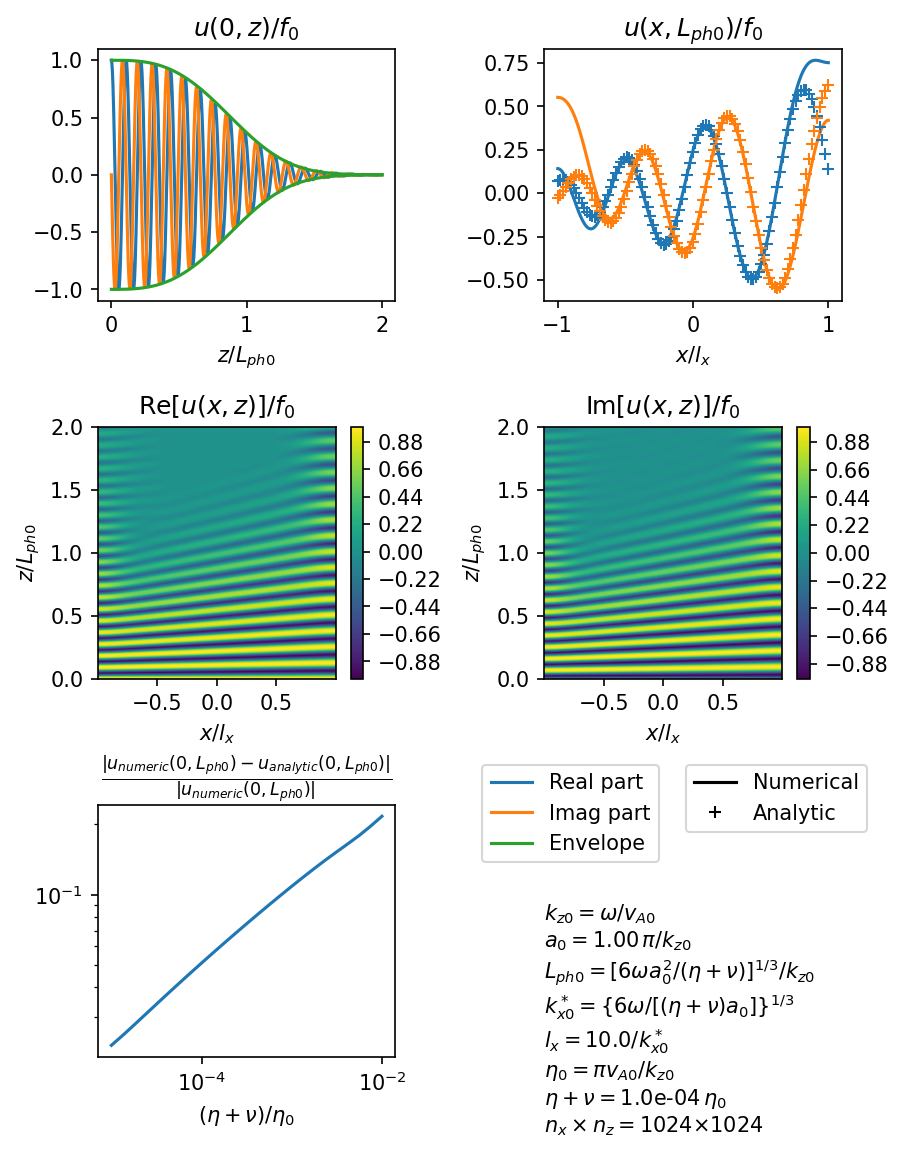
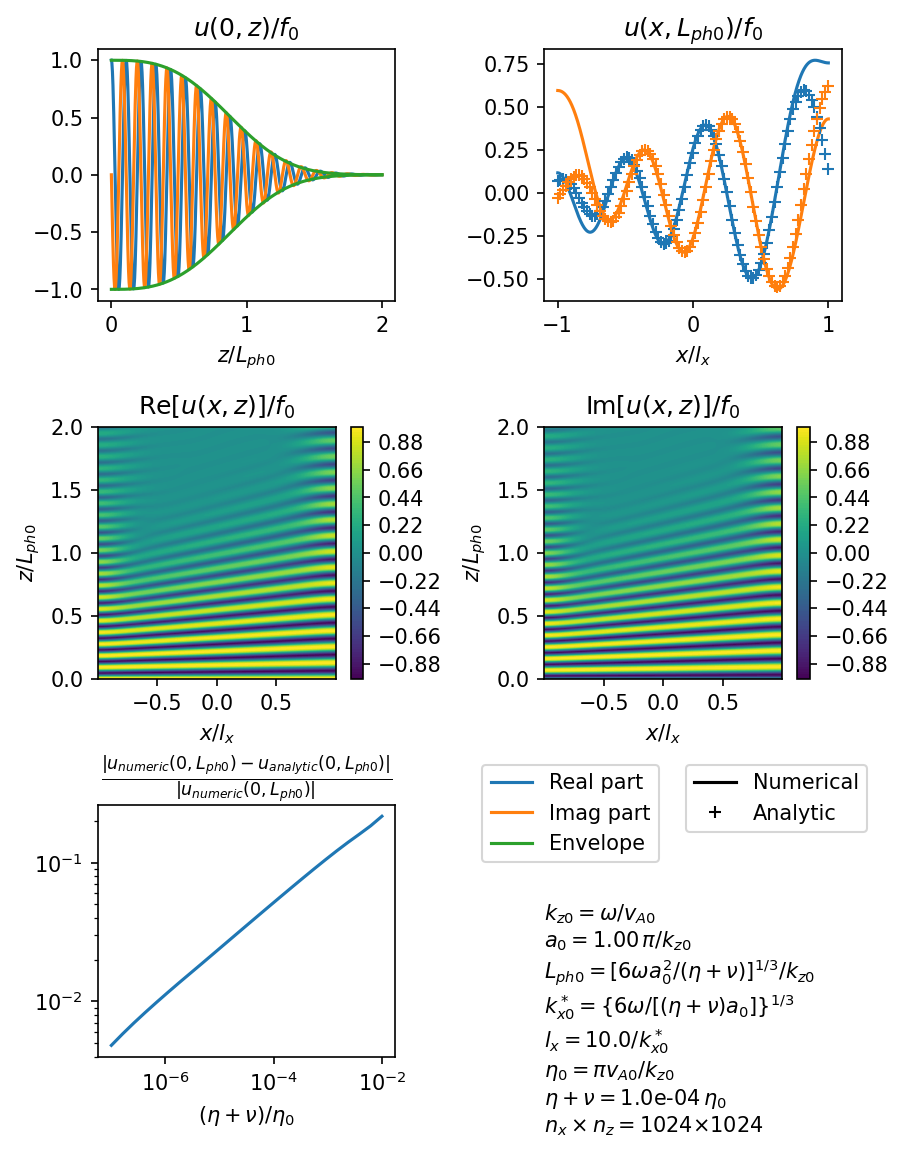
a

diff --git a/Python/Chapter3/open_loop.py b/Python/Chapter3/open_loop.py
@@ -43,6 +43,8 @@ def u_ana(x,z):
 	arg = vAx(x) ** 2 * (eta + nu) / (6 * vA(x) ** 5) * omega ** 2
 	return f0 * np.exp(-1j * kz * z) * np.exp(-arg * z ** 3)
 
+errtol = 1e-6
+
 vA0 = 1
 B0 = 1
 f0 = 1
@@ -78,7 +80,7 @@ Zm0 = np.full_like(x, 2 * f0, dtype = complex)
 jac0 = jac0_fun()
 
 t0 = time.time()
-sol = solve_ivp(dZmdz, [z_min, z_max], Zm0, t_eval = z, method = 'BDF', jac = jacboian)
+sol = solve_ivp(dZmdz, [z_min, z_max], Zm0, t_eval = z, method = 'BDF', jac = jacboian, rtol = errtol, atol = errtol)
 t1 = time.time()
 print("Time for BDF =", t1 - t0)	
 
@@ -152,9 +154,9 @@ ax.text(0, -1.8, \
 
 
 n_eta = 25
-eta_nu_array = np.logspace(-5,-2, n_eta)
-eta_array = 0.25 * eta_nu_array
-nu_array  = 0.75 * eta_nu_array
+eta_nu_array = np.logspace(-7,-2, n_eta)
+eta_array = 0.5 * eta_nu_array
+nu_array  = 0.5 * eta_nu_array
 err_array = np.zeros(n_eta)
 
 for i in range(n_eta):
@@ -179,7 +181,7 @@ for i in range(n_eta):
 
 	Zm0 = np.full_like(x, 2 * f0, dtype = complex)
 	jac0 = jac0_fun()
-	sol = solve_ivp(dZmdz, [0, Lph0], Zm0, method = 'BDF', jac = jacboian)
+	sol = solve_ivp(dZmdz, [0, Lph0], Zm0, method = 'BDF', jac = jacboian, rtol = errtol, atol = errtol)
 	Zm = sol.y.T
 	u =  0.5 * Zm
 
